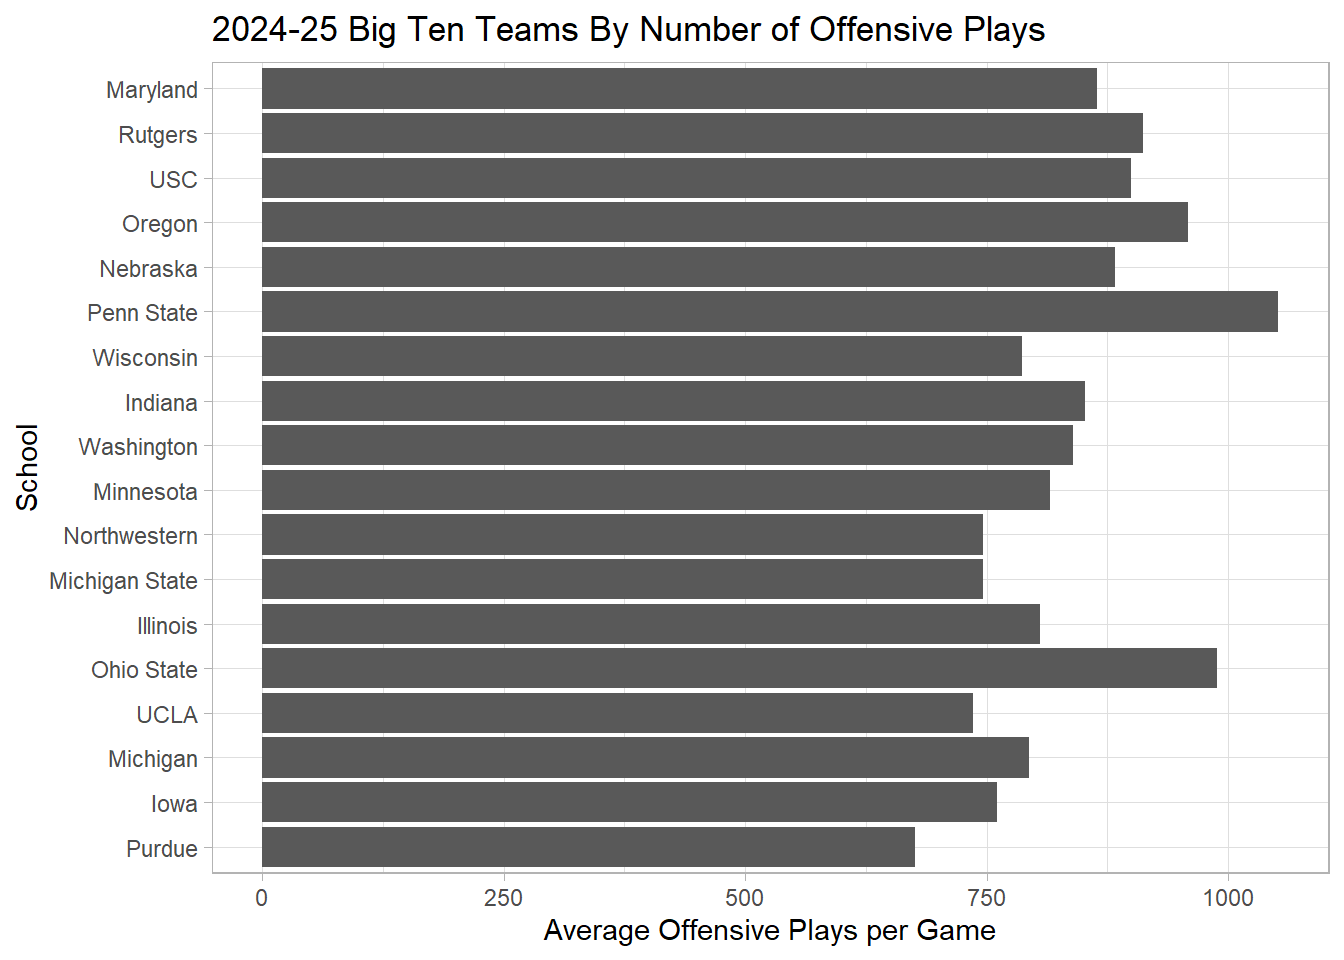
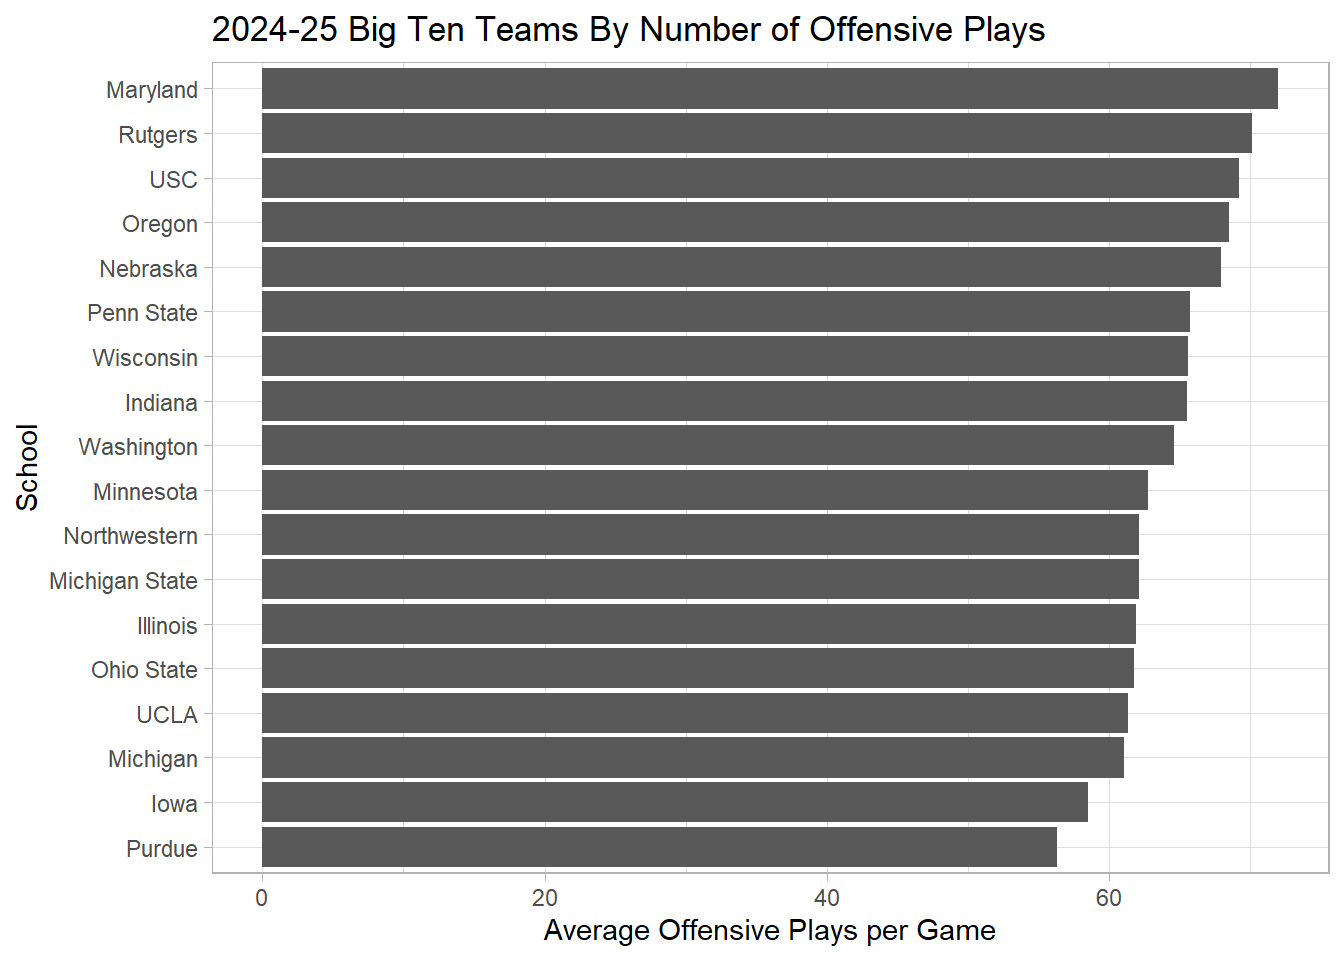
rebuild

diff --git a/docs/posts/avgcfbplays/index.html b/docs/posts/avgcfbplays/index.html
@@ -240,9 +240,9 @@ date  (1): Date
 <div class="cell">
 <details class="code-fold">
 <summary>Code</summary>
-<div class="sourceCode cell-code" id="cb7"><pre class="sourceCode r code-with-copy"><code class="sourceCode r"><span id="cb7-1"><a href="#cb7-1" aria-hidden="true" tabindex="-1"></a>bigtenplays_24 <span class="ot">&lt;-</span> logs_24 <span class="sc">|&gt;</span> <span class="fu">filter</span>(Conference <span class="sc">==</span> <span class="st">"Big Ten Conference"</span>) <span class="sc">|&gt;</span> <span class="fu">group_by</span>(Team) <span class="sc">|&gt;</span> <span class="fu">mutate</span>(<span class="at">AveragePlays =</span> <span class="fu">mean</span>(TotalPlays)) <span class="sc">|&gt;</span>  <span class="fu">select</span>(AveragePlays, TotalPlays, Team)</span>
+<div class="sourceCode cell-code" id="cb7"><pre class="sourceCode r code-with-copy"><code class="sourceCode r"><span id="cb7-1"><a href="#cb7-1" aria-hidden="true" tabindex="-1"></a>bigtenplays_24 <span class="ot">&lt;-</span> logs_24 <span class="sc">|&gt;</span> <span class="fu">filter</span>(Conference <span class="sc">==</span> <span class="st">"Big Ten Conference"</span>) <span class="sc">|&gt;</span> <span class="fu">group_by</span>(Team) <span class="sc">|&gt;</span> <span class="fu">summarise</span>(<span class="at">AveragePlays =</span> <span class="fu">mean</span>(TotalPlays))</span>
 <span id="cb7-2"><a href="#cb7-2" aria-hidden="true" tabindex="-1"></a></span>
-<span id="cb7-3"><a href="#cb7-3" aria-hidden="true" tabindex="-1"></a>bigtenplays_25 <span class="ot">&lt;-</span> logs_25 <span class="sc">|&gt;</span> <span class="fu">filter</span>(Conference <span class="sc">==</span> <span class="st">"Big Ten Conference"</span>) <span class="sc">|&gt;</span> <span class="fu">group_by</span>(Team) <span class="sc">|&gt;</span> <span class="fu">mutate</span>(<span class="at">AveragePlays =</span> <span class="fu">mean</span>(TotalPlays)) <span class="sc">|&gt;</span>  <span class="fu">select</span>(AveragePlays, TotalPlays, Team)</span></code><button title="Copy to Clipboard" class="code-copy-button"><i class="bi"></i></button></pre></div>
+<span id="cb7-3"><a href="#cb7-3" aria-hidden="true" tabindex="-1"></a>bigtenplays_25 <span class="ot">&lt;-</span> logs_25 <span class="sc">|&gt;</span> <span class="fu">filter</span>(Conference <span class="sc">==</span> <span class="st">"Big Ten Conference"</span>) <span class="sc">|&gt;</span> <span class="fu">group_by</span>(Team) <span class="sc">|&gt;</span> <span class="fu">summarise</span>(<span class="at">AveragePlays =</span> <span class="fu">mean</span>(TotalPlays))</span></code><button title="Copy to Clipboard" class="code-copy-button"><i class="bi"></i></button></pre></div>
 </details>
 </div>
 <p>In this chunk, I’m filtering the data, which includes all college football games involving FBS teams, to only include games played by teams in the Big Ten. I then group the data by team so that my subsequent mutation, adding the average number of offensive plays the team ran per game, applies to each team individually and not the entire dataset.</p>
